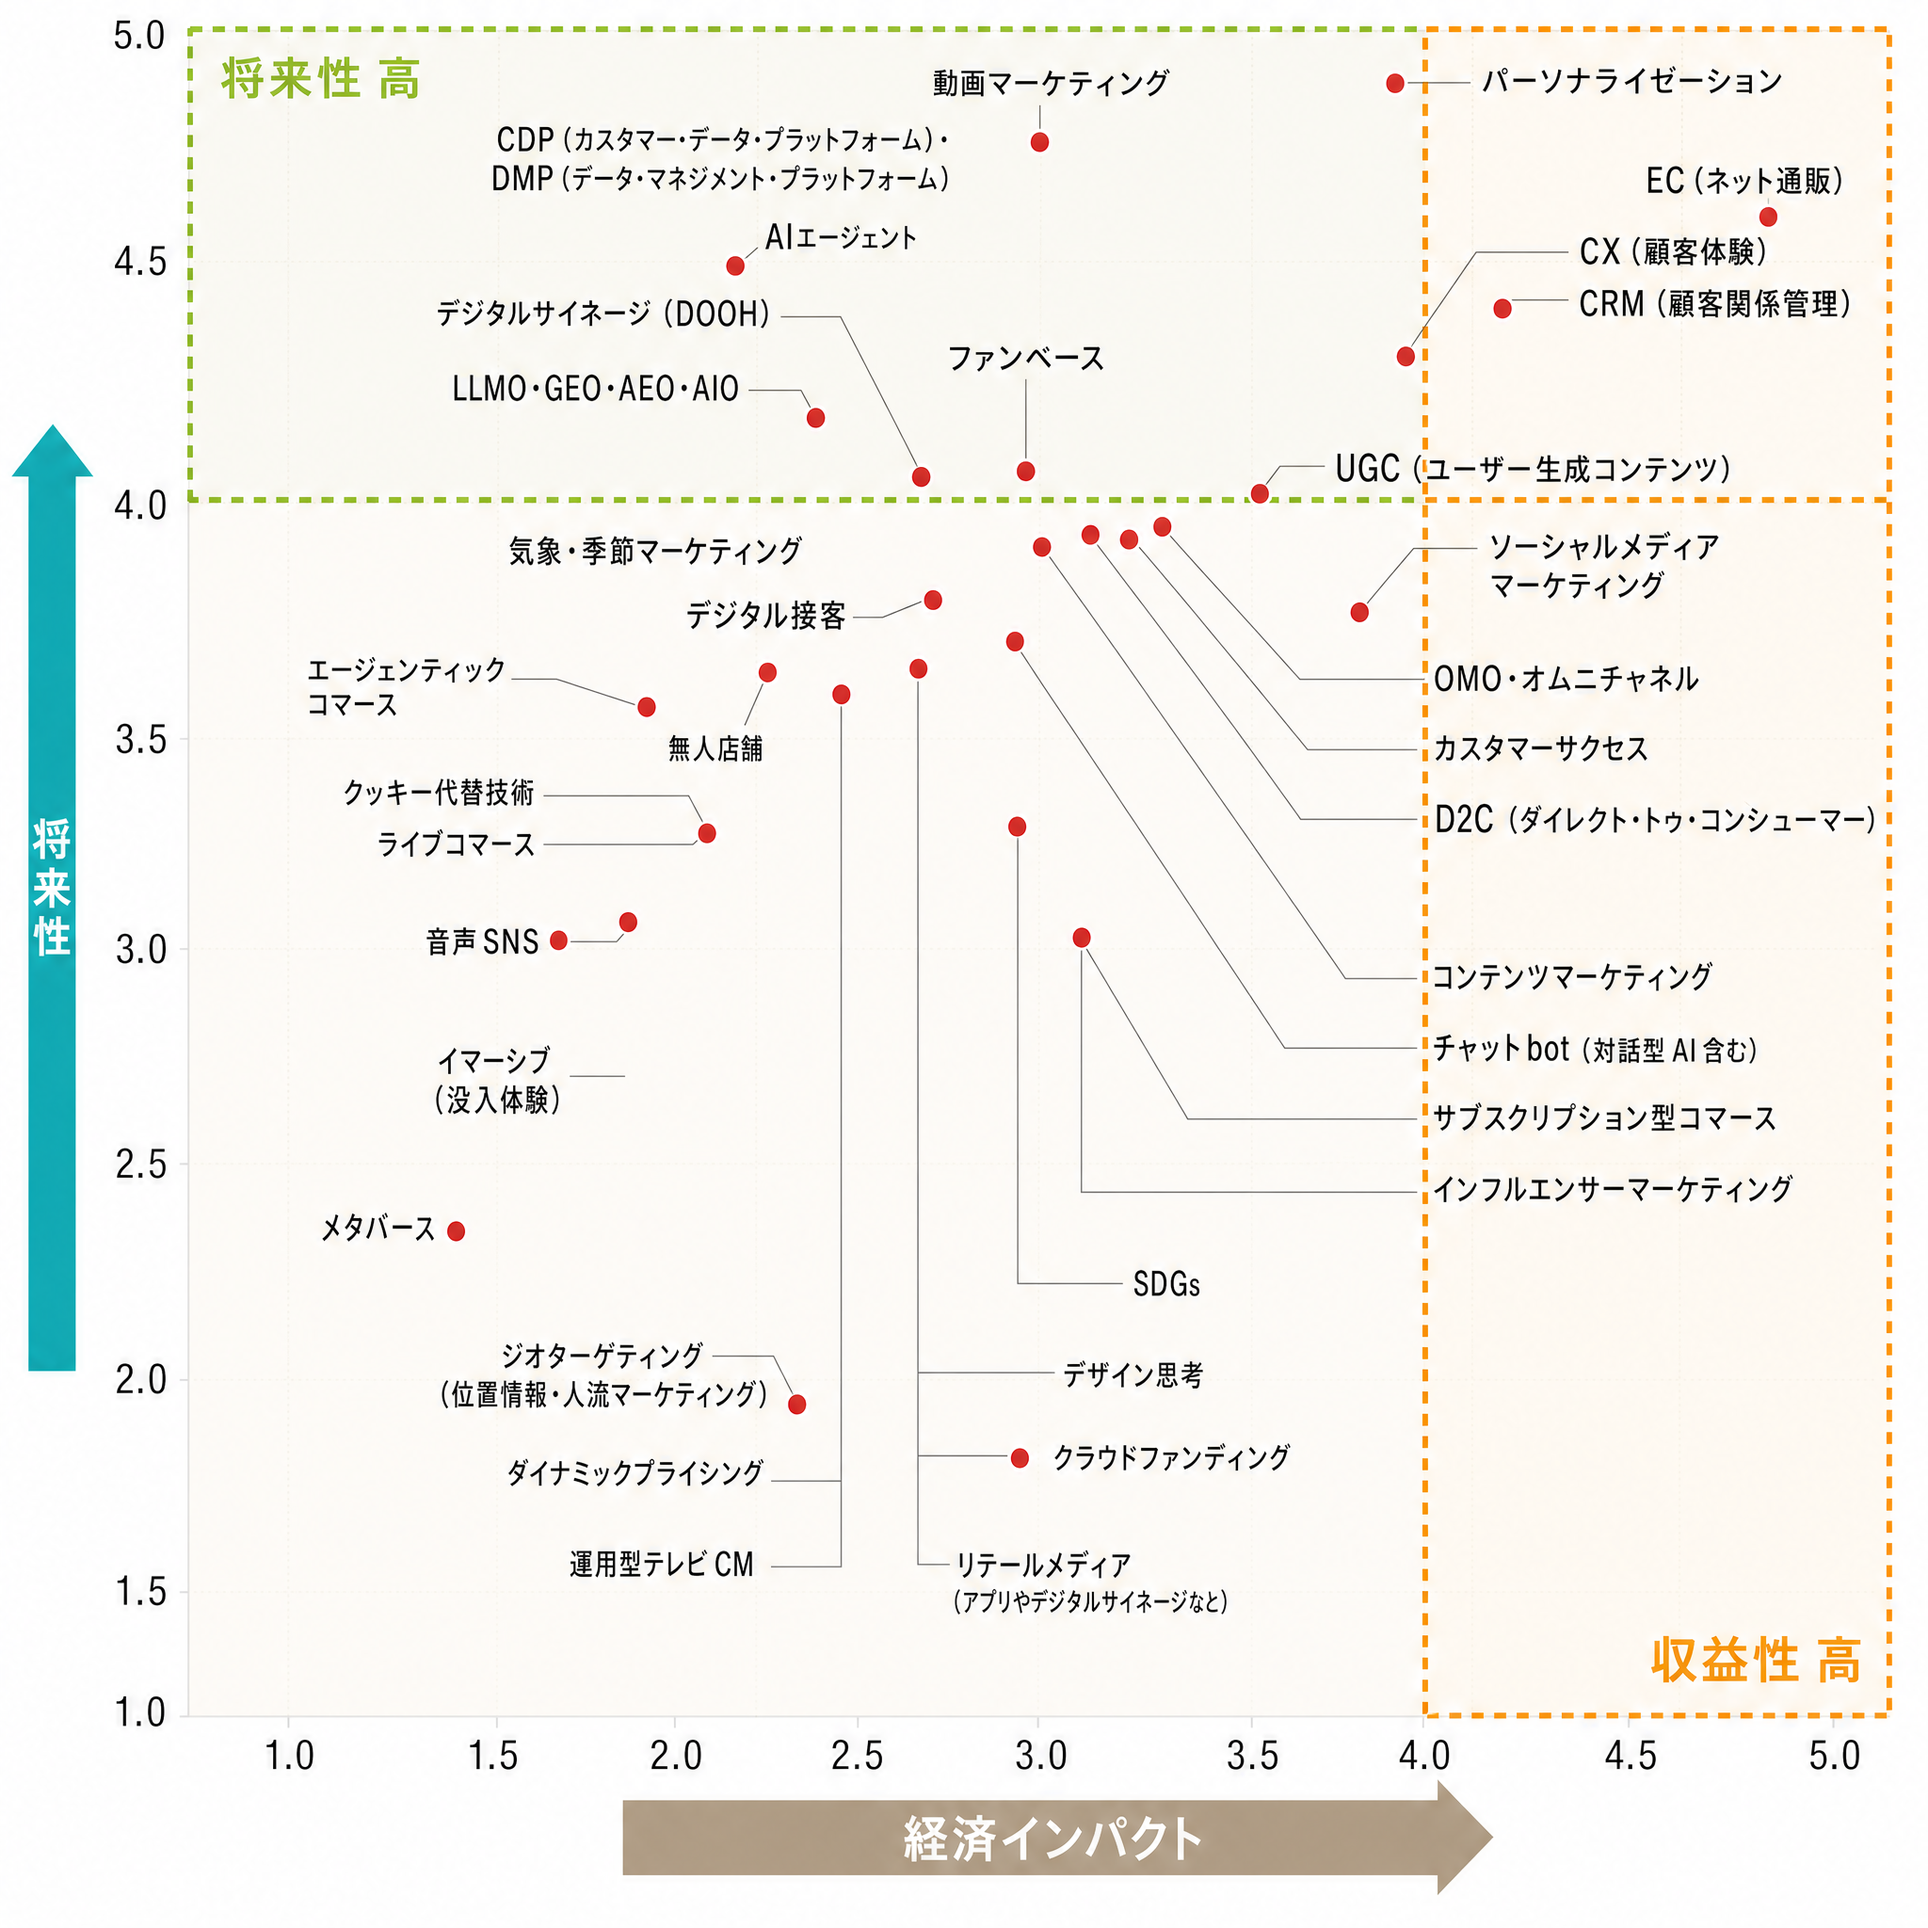
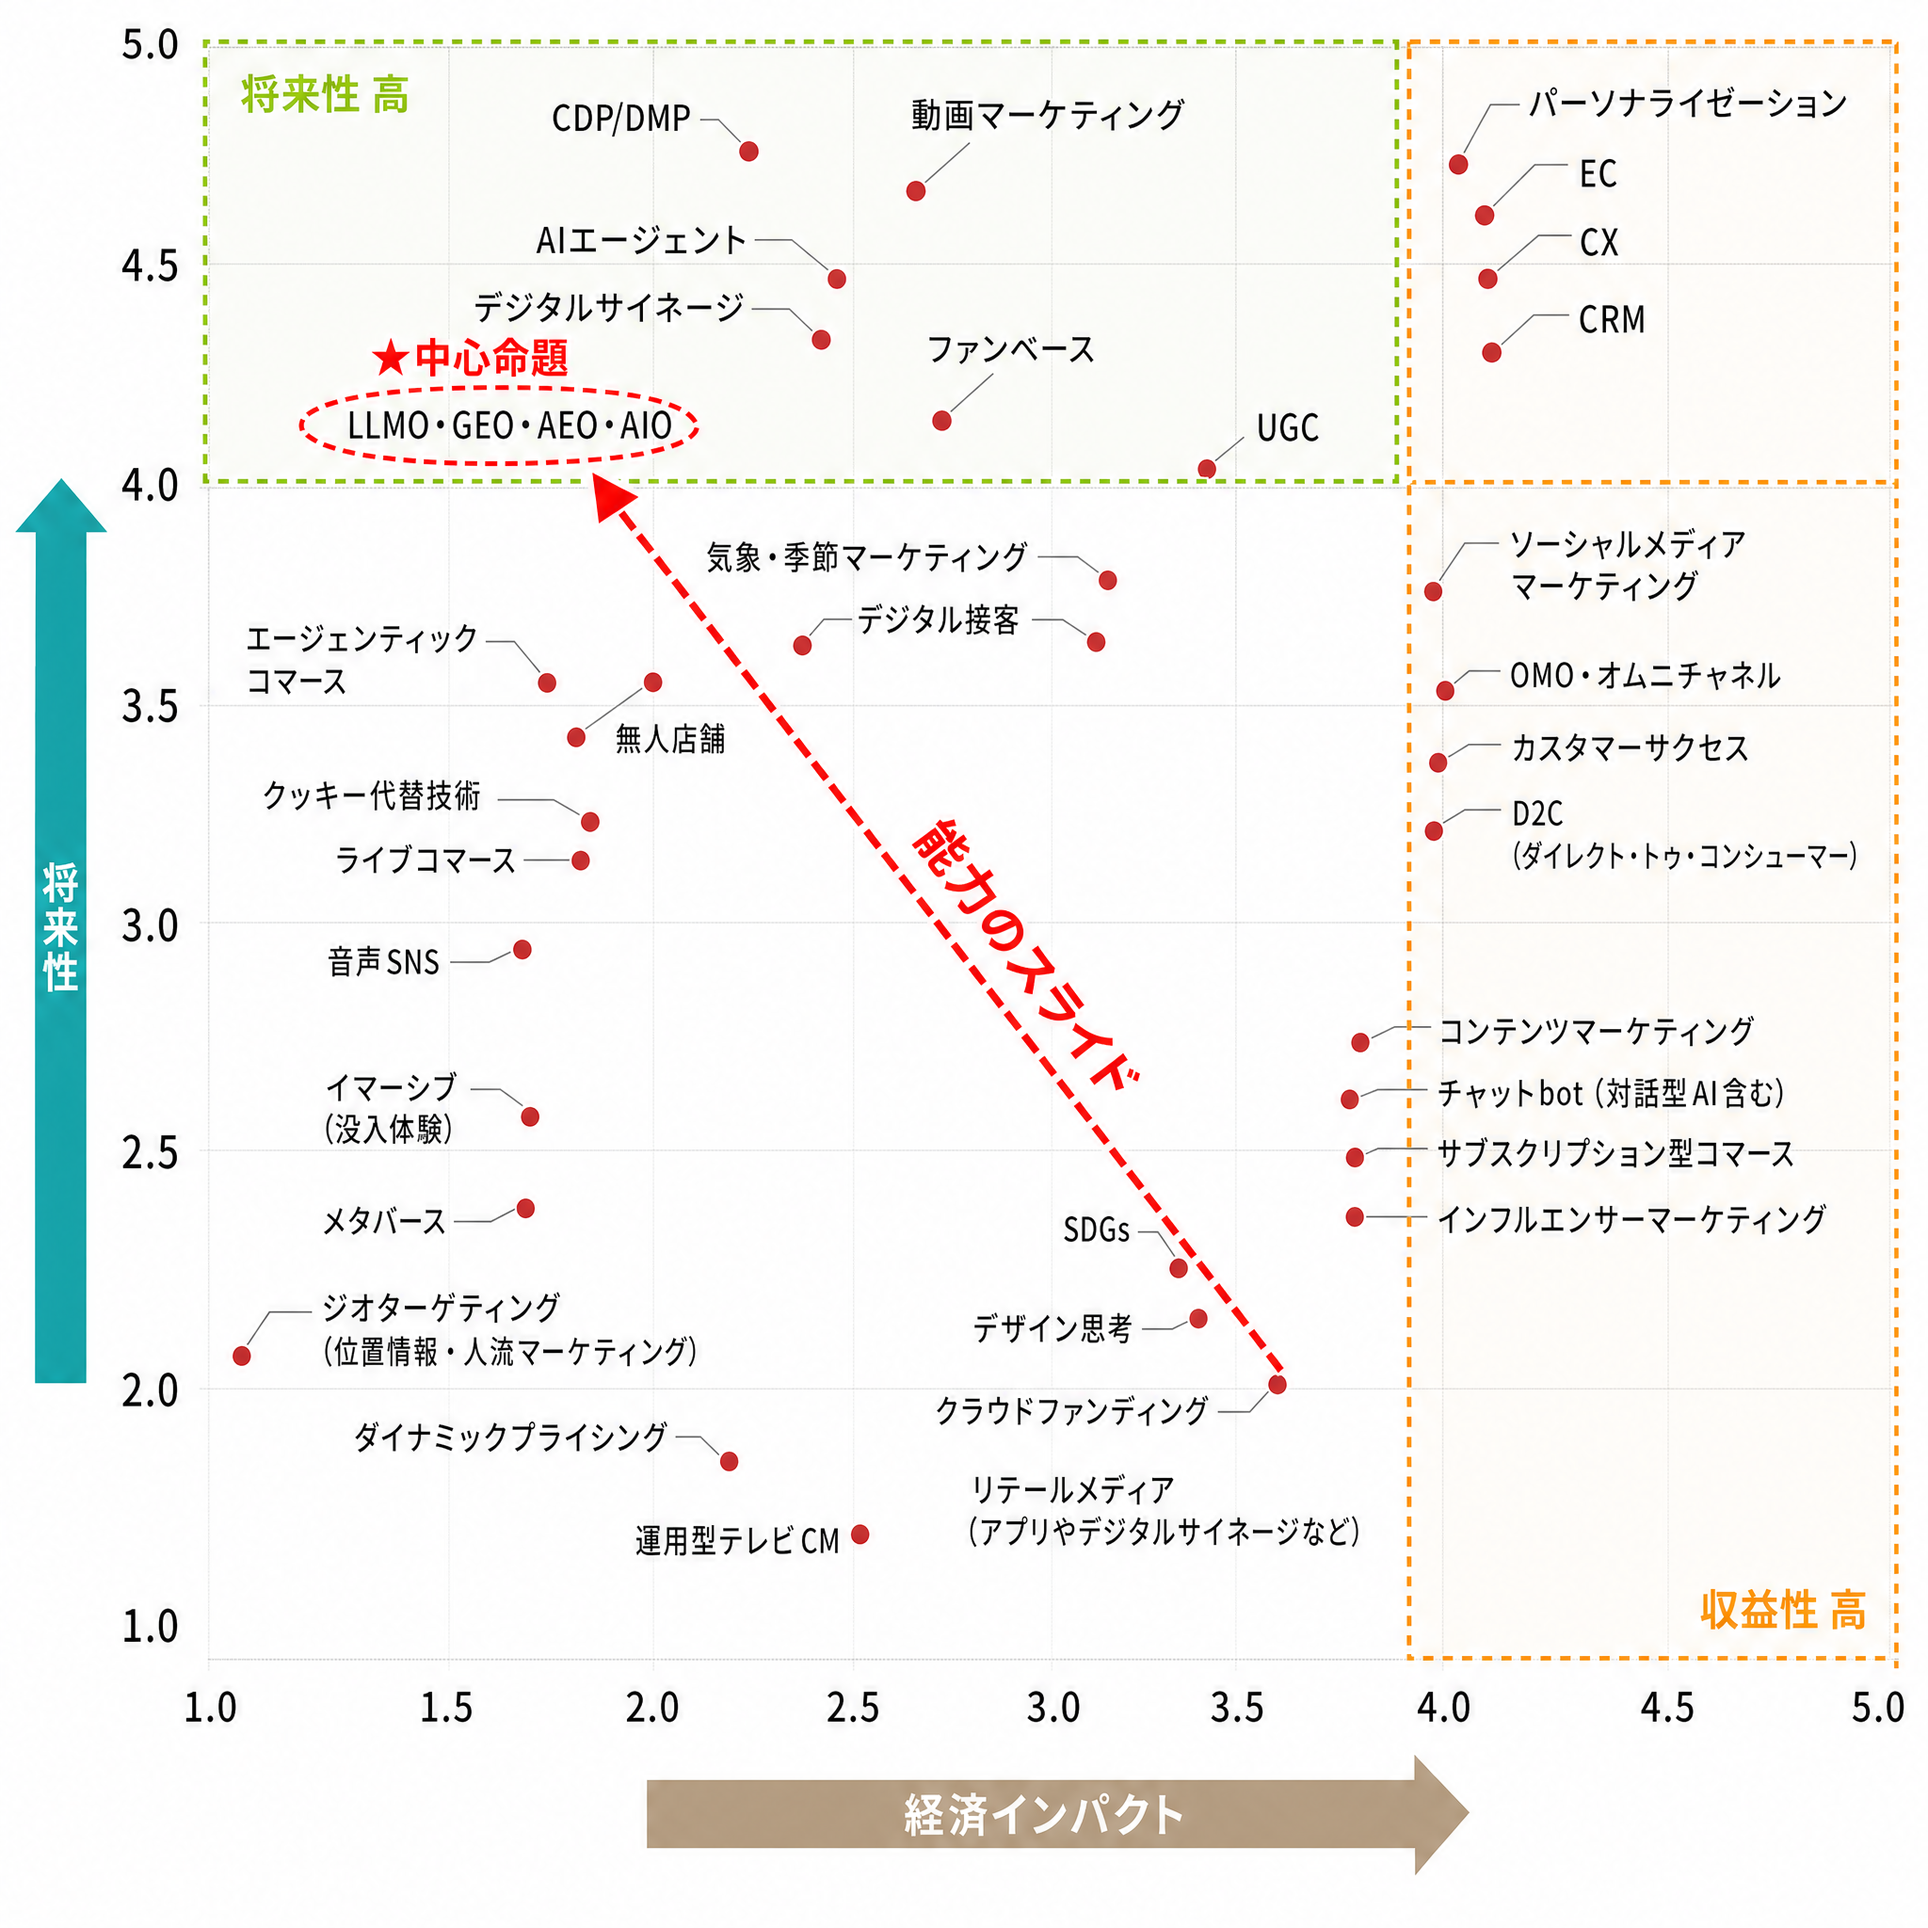
fix(blog): マトリクス図を画像内に解釈オーバーレイ焼き込み版に差し替え
SVG オーバーレイ方式は座標目分量の誤差でラベル位置がズレ続けたため抜本対策。
GPT Image 2 にプロンプトで「LLMO群を赤い破線楕円で囲む + ★中心命題 + 能力のスライド矢印」を
画像内に直接焼き込んでもらうことで、ラベルと装飾要素のズレを原理的に解消。

- 画像差し替え: trend-matrix-base.png (v2 - 解釈オーバーレイ焼き込み版)
- Markdown: SVG オーバーレイ要素を全削除（画像にすべて含まれるため不要）
- alt: DFB分析オーバーレイ込みの内容を反映

diff --git a/src/content/posts/dfb-trend-map-2026-marketing/index.md b/src/content/posts/dfb-trend-map-2026-marketing/index.md
@@ -41,21 +41,8 @@ draft: false
 下の図は、ぼくが公式マップを参照しながら**自作した概念再現図**だ。公式マトリクスの正確なビジュアルは出典先（[日経クロストレンド公式X投稿](https://x.com/NIKKEIxTREND/status/2065562330470162607) / [元記事](https://xtrend.nikkei.com/atcl/contents/18/00448/00020/)）を直接ご覧いただきたい。
 
 <figure style="margin: 1.5rem 0;">
-<div style="position:relative;max-width:700px;margin:0 auto;">
-  <img src="/dfb-trend-map-2026-marketing/figures/trend-matrix-base.png" alt="2026マーケティングトレンドマップの座標再現図。横軸は経済インパクト(1〜5)、縦軸は将来性(1〜5)で、LLMO・GEO・AEO・AIO や AIエージェント、CDP/DMP、EC、CX、CRM 等 35 キーワードが散布図上に座標通りに配置され、緑枠で将来性高領域、橙枠で収益性高領域が示されている。" style="width:100%;display:block;border:1px solid #d6d3d1;border-radius:8px;" />
-  <svg viewBox="0 0 100 100" preserveAspectRatio="none" xmlns="http://www.w3.org/2000/svg" style="position:absolute;top:0;left:0;width:100%;height:100%;pointer-events:none;">
-    <defs>
-      <marker id="dfb-arrow" markerWidth="6" markerHeight="6" refX="5" refY="3" orient="auto">
-        <polygon points="0 0, 6 3, 0 6" fill="rgba(220,38,38,0.85)" />
-      </marker>
-    </defs>
-    <!-- LLMO 群を赤丸で強調 -->
-    <ellipse cx="23.5" cy="21" rx="11" ry="3" fill="none" stroke="#dc2626" stroke-width="0.6" stroke-dasharray="0.8 0.4" />
-    <text x="23.5" y="15.5" fill="#dc2626" font-size="2.5" font-weight="bold" text-anchor="middle">★中心命題</text>
-    <!-- 能力のスライド軸（右下→左上の大きな矢印） -->
-    <path d="M 65 68 Q 47 48 35 23" stroke="rgba(220,38,38,0.55)" stroke-width="0.7" fill="none" marker-end="url(#dfb-arrow)" stroke-dasharray="1.5 0.8" />
-    <text x="48" y="48" fill="rgba(220,38,38,0.95)" font-size="3" font-weight="bold" transform="rotate(-32 48 48)">能力のスライド</text>
-  </svg>
+<div style="max-width:700px;margin:0 auto;">
+  <img src="/dfb-trend-map-2026-marketing/figures/trend-matrix-base.png" alt="2026マーケティングトレンドマップの座標再現図（DFB分析オーバーレイ入り）。横軸は経済インパクト(1〜5)、縦軸は将来性(1〜5)。LLMO・GEO・AEO・AIO ラベル群が左上に赤い破線楕円で囲まれ「★中心命題」と明示され、散布図右下から LLMO 群に向かって赤い破線矢印で「能力のスライド」軸が引かれている。35キーワード（AIエージェント、CDP/DMP、EC、CX、CRM 他）も座標通りに配置され、緑枠で将来性高領域、橙枠で収益性高領域が示されている。" style="width:100%;display:block;border:1px solid #d6d3d1;border-radius:8px;" />
 </div>
 <figcaption style="text-align:center;font-size:0.85em;color:#78716c;margin-top:0.5rem;">図1: 2026 マーケティングトレンドマップ（公式マップを参照した自作分析図）。赤い破線丸で LLMO/GEO/AEO/AIO 群（記事の中心命題）を強調し、右下→左上の赤矢印で「能力のスライド」軸を視覚化している。</figcaption>
 </figure>
